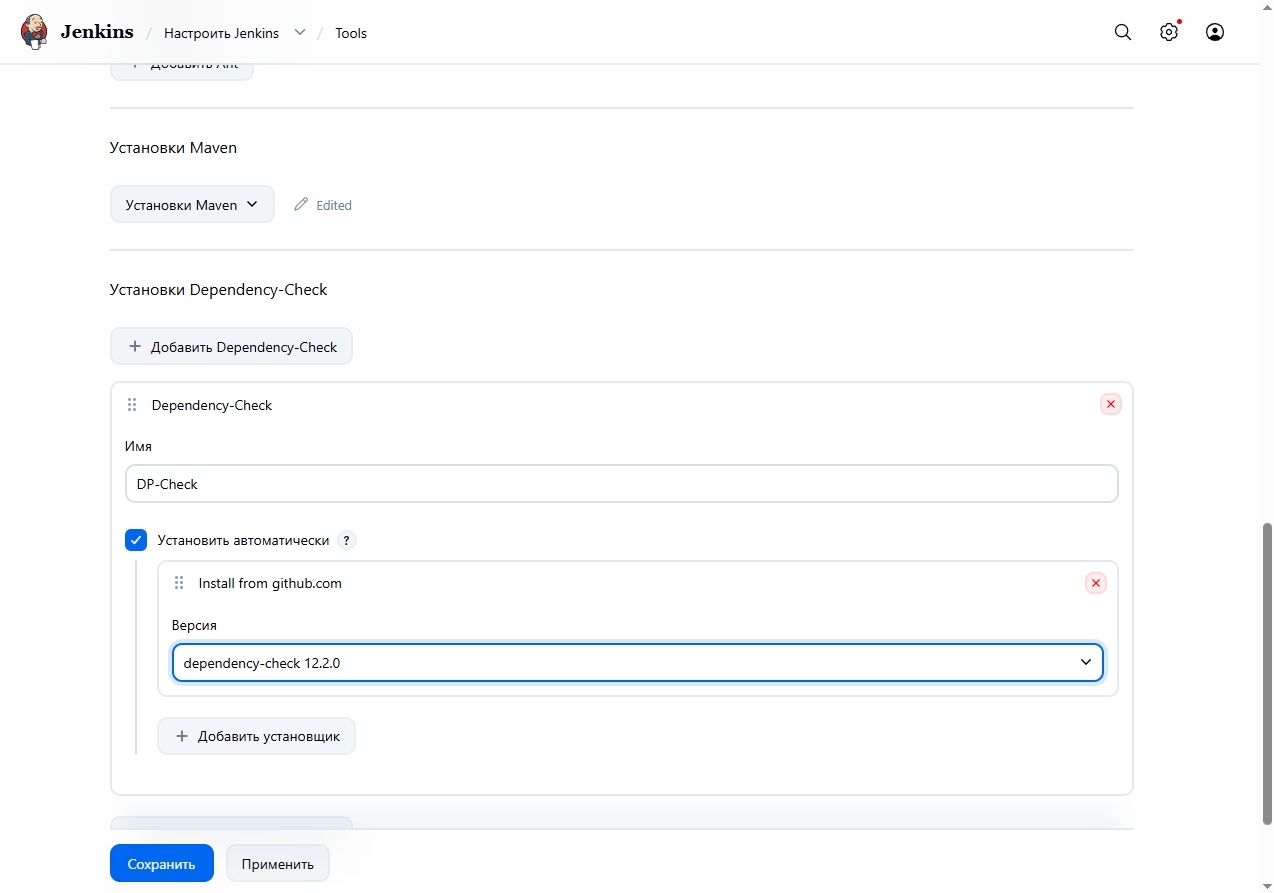
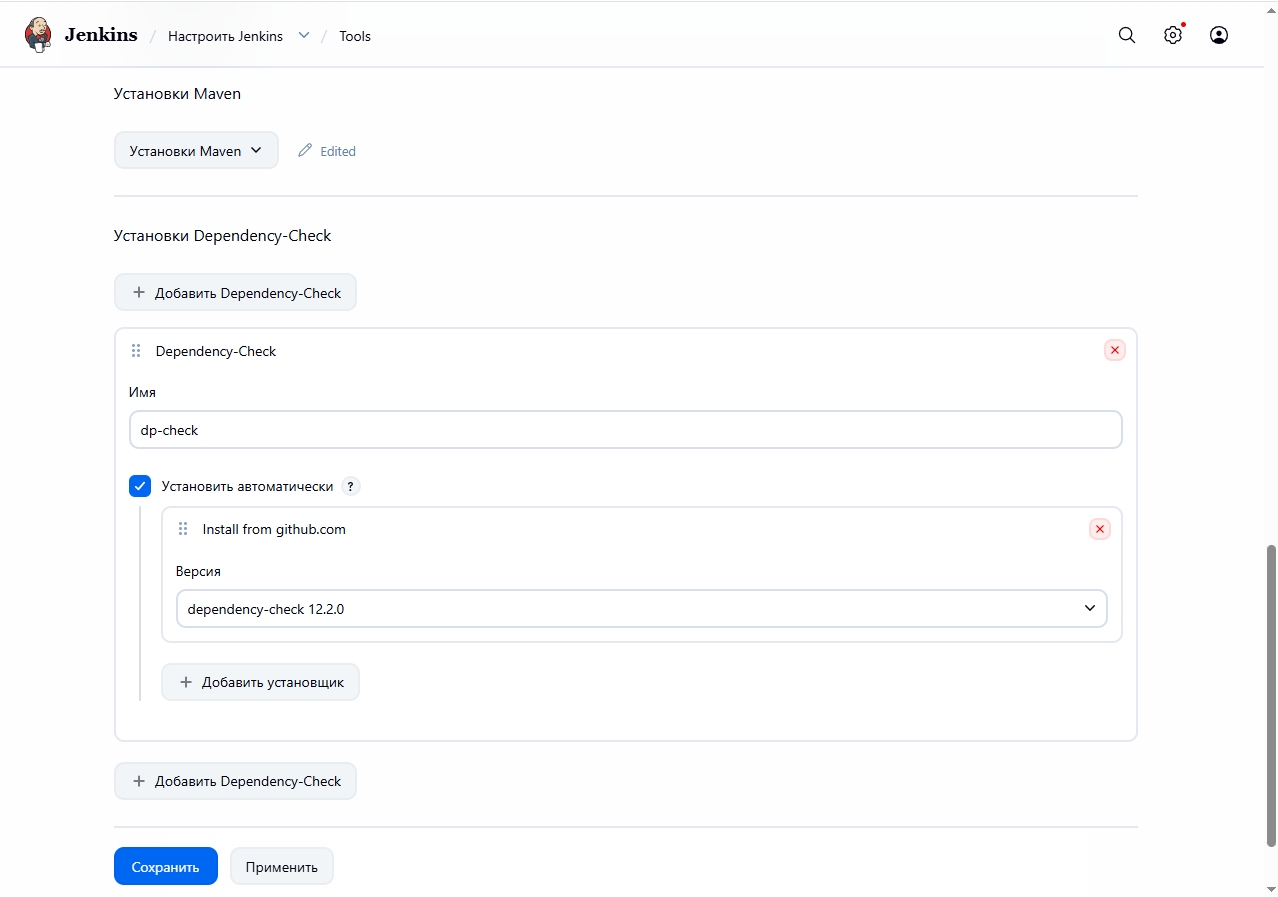
change_readme

diff --git a/README.md b/README.md
@@ -205,10 +205,10 @@ Step 3: Install Plugins in Jenkins
 ----------------------------------
 In Jenkins, navigate to Manage Jenkins -> Available Plugins and install the following plugins:
 
-Eclipse Temurin Installer
-SonarQube Scanner
-Maven Integration
-OWASP Dependency-Check
+- Eclipse Temurin Installer
+- SonarQube Scanner
+- Maven Integration
+- OWASP Dependency-Check
 
 Configure Java and Maven in Global Tool Configuration
 Go to Manage Jenkins → Tools → Install JDK(17) and Maven3(3.6.0) → Click on Apply and Save
@@ -251,7 +251,8 @@ pipeline{
 Step 4: Configure SonarQube Server in Jenkins
 ---------------------------------------------
 Since SonarQube operates on Port 9000, you can access it via <EC2_Public_IP>:9000.
-**To proceed, navigate to your SonarQube server, then follow these steps:
+
+ **To proceed, navigate to your SonarQube server, then follow these steps:
 **Click on Administration → Security → Users → Tokens. Next, update and copy the token by providing a name and clicking on Generate Token.
 
 ![sonar_token](screen/sonar_token.jpg)
@@ -329,7 +330,7 @@ pipeline {
         stage('Quality Gate') {
             steps {
                 script {
-                    waitForQualityGate abortPipeline: false, credentialsId: 'Sonar-token'
+                    waitForQualityGate abortPipeline: false, credentialsId: 'sonar-token'
                 }
             }
         }
@@ -345,7 +346,7 @@ Step 5: Install OWASP Dependency Check Plugins
 ----------------------------------------------
 Proceed to configure the tool by navigating to Dashboard → Manage Jenkins → Tools →.
 
-![Dp_Check](screen/DP_Check.jpg)
+![dp_check](screen/dp_check.jpg)
 
 Get an NVD API key. Register here: https://nvd.nist.gov/developers/request-an-api-key
 Save the key
@@ -353,7 +354,7 @@ Add the key to Jenkins
 In Jenkins, go to Manage Jenkins → Credentials
 Create a new "Secret text":
 
-![NVD_API_KEY_cred](screen/NVD_API_KEY_cred.jpg)
+![nvd_api_key_cred](screen/nvd_api_key_cred.jpg)
 
 Add the script in pipeline:
 ```
@@ -416,15 +417,15 @@ pipeline {
         stage('Quality Gate') {
             steps {
                 script {
-                    waitForQualityGate abortPipeline: false, credentialsId: 'Sonar-token'
+                    waitForQualityGate abortPipeline: false, credentialsId: 'sonar-token'
                 }
             }
         }
 
         stage('OWASP Dependency Check') {
             steps {
-                withCredentials([string(credentialsId: 'NVD_API_KEY', variable: 'NVD_API_KEY')]) {
-                    dependencyCheck additionalArguments: "--scan ./ --format XML --nvdApiKey ${NVD_API_KEY}", odcInstallation: 'DP-Check'
+                withCredentials([string(credentialsId: 'nvd_api_key', variable: 'nvd_api_key')]) {
+                    dependencyCheck additionalArguments: "--scan ./ --format XML --nvdApiKey ${nvd_api_key}", odcInstallation: 'dp-check'
                     dependencyCheckPublisher pattern: '**/dependency-check-report.xml'
                 }
             }
@@ -434,7 +435,7 @@ pipeline {
 ```
 You can see the report:
 
-![DP_Check_results](screen/DP_Check_results.jpg)
+![dp_check_results](screen/dp_check_results.jpg)
 
 Step 6: Docker Set-up
 ---------------------
@@ -461,8 +462,7 @@ sudo apt install ansible-core -y
 ```
 To add inventory you can create a new directory or add in the default Ansible hosts file:
 ```
-cd /etc/ansible
-sudo vi hosts
+sudo vi /etc/ansible/hosts
 ```
 ```
 [local]
@@ -482,7 +482,7 @@ cat jpetstore_rsa.pub >> ~/.ssh/authorized_keys
 chmod 600 ~/.ssh/authorized_keys
 ```
 
-Now add Credentials to invoke Ansible with Jenkins.
+Now add Credentials to invoke Ansible with Jenkins (private key - jpetstore_rsa ).
 ![ssh_for_ansible](screen/ssh_for_ansible.jpg )
 In the Private key section, paste your jpetstore_rsa key file content directly.
 
@@ -561,16 +561,16 @@ pipeline {
 
         stage('Quality Gate') {
             steps {
-                waitForQualityGate abortPipeline: false, credentialsId: 'Sonar-token'
+                waitForQualityGate abortPipeline: false, credentialsId: 'sonar-token'
             }
         }
 
         stage('OWASP Dependency Check') {
             steps {
-                withCredentials([string(credentialsId: 'NVD_API_KEY', variable: 'NVD_API_KEY')]) {
+                withCredentials([string(credentialsId: 'nvd_api_key', variable: 'nvd_api_key')]) {
                     dependencyCheck(
-                        additionalArguments: "--scan ./ --format XML --nvdApiKey ${NVD_API_KEY}",
-                        odcInstallation: 'DP-Check'
+                        additionalArguments: "--scan ./ --format XML --nvdApiKey ${nvd_api_key}",
+                        odcInstallation: 'dp-check'
                     )
                     dependencyCheckPublisher pattern: '**/dependency-check-report.xml'
                 }
@@ -879,16 +879,16 @@ pipeline {
 
         stage('Quality Gate') {
             steps {
-                waitForQualityGate abortPipeline: false, credentialsId: 'Sonar-token'
+                waitForQualityGate abortPipeline: false, credentialsId: 'sonar-token'
             }
         }
 
         stage('OWASP Dependency Check') {
             steps {
-                withCredentials([string(credentialsId: 'NVD_API_KEY', variable: 'NVD_API_KEY')]) {
+                withCredentials([string(credentialsId: 'nvd_api_key', variable: 'nvd_api_key')]) {
                     dependencyCheck(
-                        additionalArguments: "--scan ./ --format XML --nvdApiKey ${NVD_API_KEY}",
-                        odcInstallation: 'DP-Check'
+                        additionalArguments: "--scan ./ --format XML --nvdApiKey ${nvd_api_key}",
+                        odcInstallation: 'dp-check'
                     )
                     dependencyCheckPublisher pattern: '**/dependency-check-report.xml'
                 }
